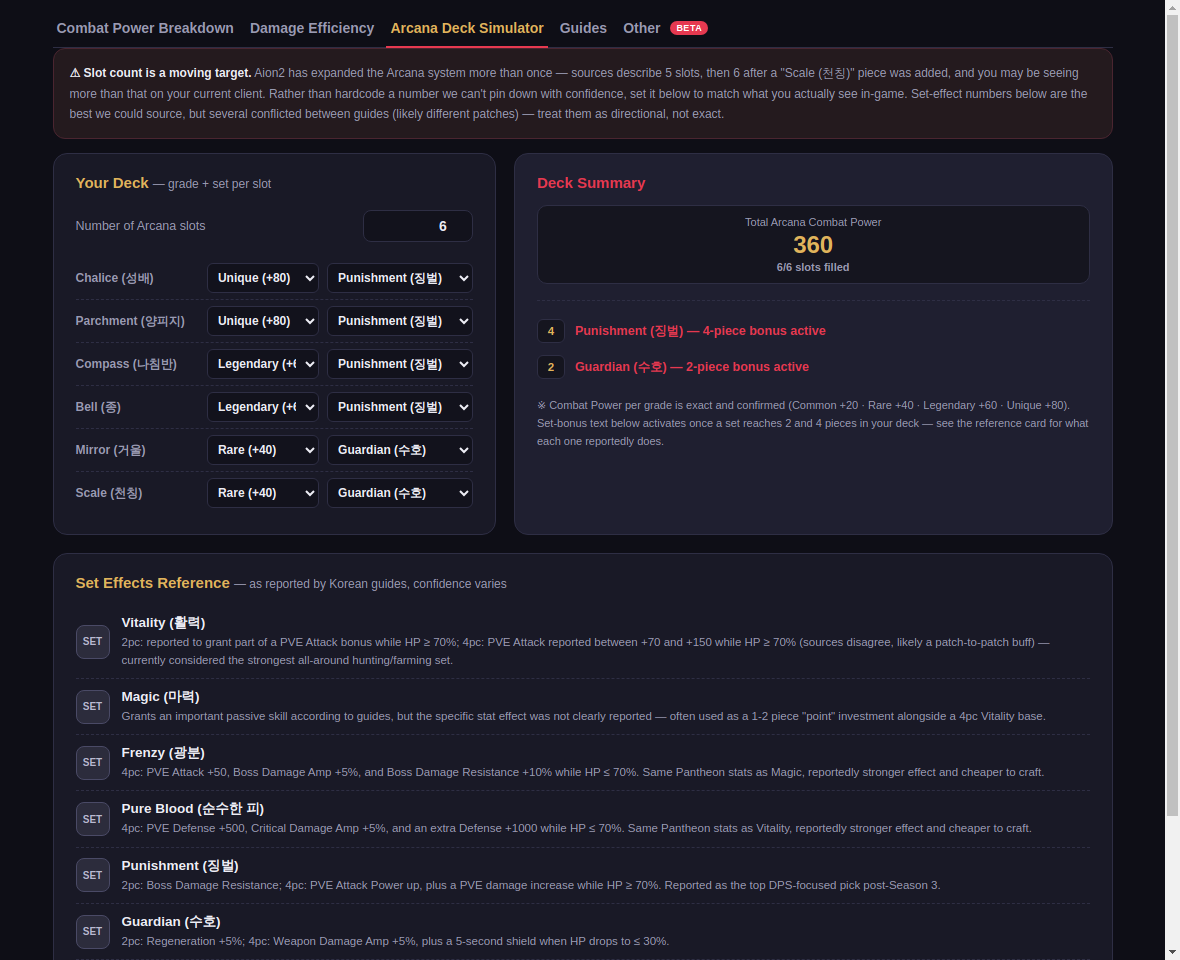
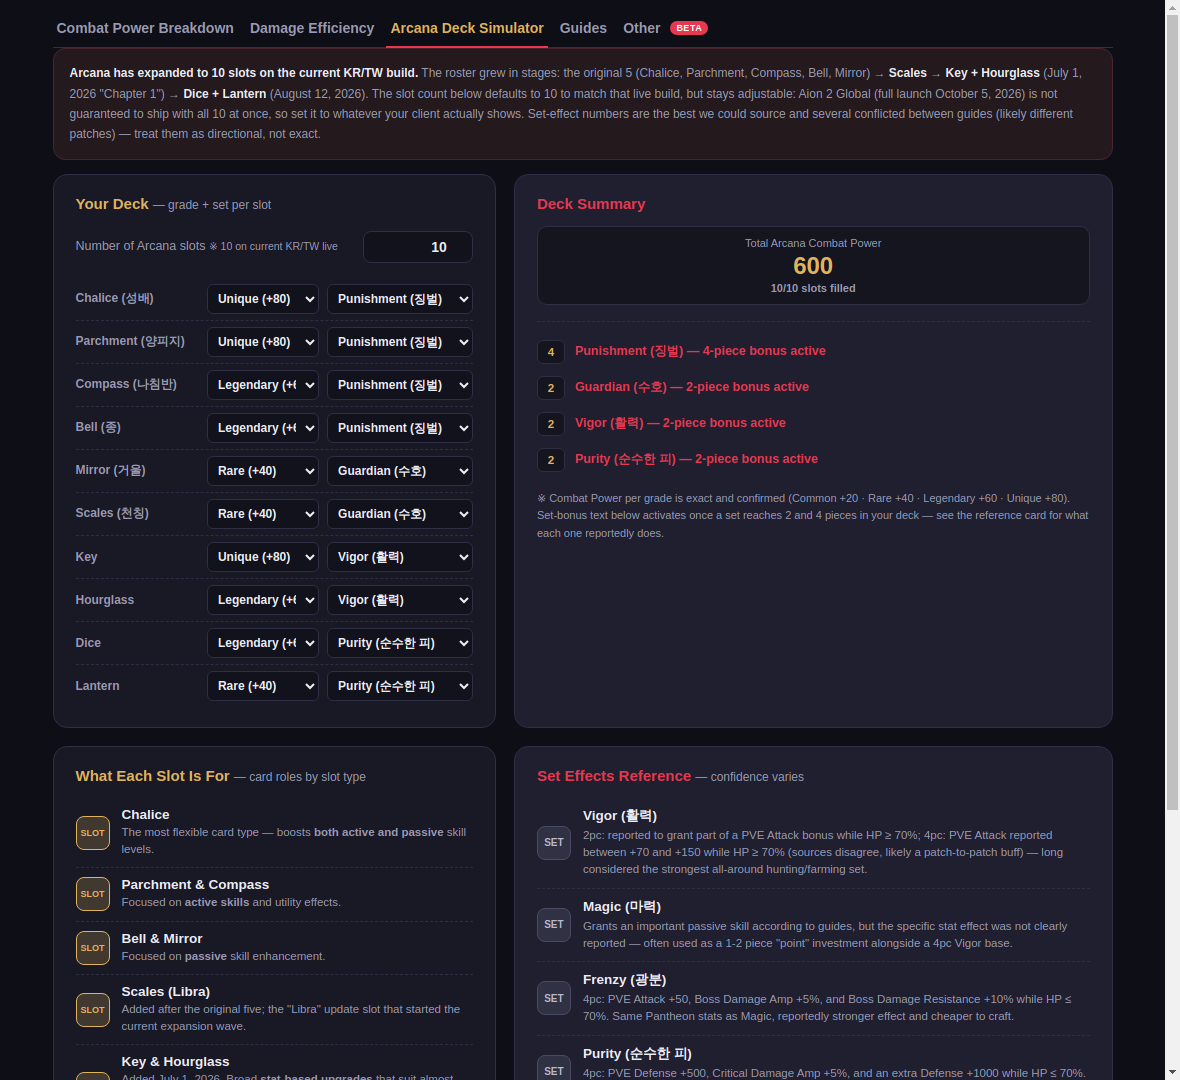
Deep-dive update: align Combat Power, Arcana and Guides with the current build
Combat Power: completed the Pantheon table with all 10 deity stats and
their official English names/mappings (Justice[Nezekan],
Destruction[Zikel], Freedom[Vaizel], Death[Triniel], Illusion[Kaisinel],
Wisdom[Lumiel], Life[Yustiel], Destiny[Marchutan], Time[Siel],
Space[Israphel]); documented that conversion is perfectly linear with a
worked example (Wisdom 178 -> +35.6% Smite); added a Monolith card
covering Empyrean Trace pillars as a non-gear deity-stat/CP source.

Arcana: slot roster corrected 6 -> 10 to match current KR/TW live
(original 5, then Scales, then Key + Hourglass on Jul 1, then Dice +
Lantern on Aug 12); official English set names (Vigor, Purity,
Indomitability); new per-slot card-role guidance.

Guides: new Chapter 1 "Land of Sand and Frost" card (Brawler, level 50 /
Stigma 25, Eltnen & Morheim, Sealed Dungeons, Strongholds, new gear);
glossary updated to official English terms; tab dated to the Aug 12,
2026 build with a Global-launch caveat.

Screenshots regenerated against the updated build.

Claude-Session: https://claude.ai/code/session_01SQ6BczPMuWFshtfUDpAGGM

diff --git a/src/index.html b/src/index.html
@@ -293,21 +293,37 @@
         <tr><td>Intelligence</td><td style="color:var(--muted)">(mapping not confirmed by sources)</td><td><input type="number" id="atInt" value="0" min="0"></td><td class="num" id="atIntOut">+0.00%</td></tr>
         <tr><td>Willpower</td><td style="color:var(--muted)">(mapping not confirmed by sources)</td><td><input type="number" id="atWill" value="0" min="0"></td><td class="num" id="atWillOut">+0.00%</td></tr>
         <tr><th style="padding-top:14px">Pantheon / Deity Stat (+0.20%/pt)</th><th style="padding-top:14px"></th><th style="padding-top:14px"></th><th style="padding-top:14px"></th></tr>
-        <tr><td>Justice (Nezekan)</td><td>Defense, Perfect proc rate</td><td><input type="number" id="atJustice" value="0" min="0"></td><td class="num" id="atJusticeOut">+0.00%</td></tr>
-        <tr><td>Freedom (Vaizel)</td><td>Accuracy, Evasion</td><td><input type="number" id="atFreedom" value="0" min="0"></td><td class="num" id="atFreedomOut">+0.00%</td></tr>
-        <tr><td>Illusion (Kaisinel)</td><td>Cooldown Reduction, Penetration</td><td><input type="number" id="atIllusion" value="0" min="0"></td><td class="num" id="atIllusionOut">+0.00%</td></tr>
-        <tr><td>Life (Yustiel)</td><td>Max HP, Regeneration proc rate</td><td><input type="number" id="atLife" value="0" min="0"></td><td class="num" id="atLifeOut">+0.00%</td></tr>
-        <tr><td>Time (Siel)</td><td>Attack Speed, Smite Resistance</td><td><input type="number" id="atTime" value="0" min="0"></td><td class="num" id="atTimeOut">+0.00%</td></tr>
-        <tr><td>Wisdom (Lumiel)</td><td>Smite proc rate</td><td><input type="number" id="atWisdom" value="0" min="0"></td><td class="num" id="atWisdomOut">+0.00%</td></tr>
-        <tr><td>Death <span style="color:var(--muted)">(name uncertain)</span></td><td style="color:var(--muted)">Critical (2nd stat unclear in sources)</td><td><input type="number" id="atDeath" value="0" min="0"></td><td class="num" id="atDeathOut">+0.00%</td></tr>
-        <tr><td>Destruction <span style="color:var(--muted)">(name uncertain)</span></td><td style="color:var(--muted)">Attack Power, Perfect Resistance</td><td><input type="number" id="atDestruction" value="0" min="0"></td><td class="num" id="atDestructionOut">+0.00%</td></tr>
-        <tr><td>Other 2 deity stats</td><td style="color:var(--muted)">(names/mappings not confirmed — same +0.20%/pt rate)</td><td><input type="number" id="atOtherDeity" value="0" min="0"></td><td class="num" id="atOtherDeityOut">+0.00%</td></tr>
+        <tr><td>Justice [Nezekan]</td><td>Defense, Perfect Chance</td><td><input type="number" id="atJustice" value="0" min="0"></td><td class="num" id="atJusticeOut">+0.00%</td></tr>
+        <tr><td>Destruction [Zikel]</td><td>Attack, Perfect Resist</td><td><input type="number" id="atDestruction" value="0" min="0"></td><td class="num" id="atDestructionOut">+0.00%</td></tr>
+        <tr><td>Freedom [Vaizel]</td><td>Accuracy, Evasion</td><td><input type="number" id="atFreedom" value="0" min="0"></td><td class="num" id="atFreedomOut">+0.00%</td></tr>
+        <tr><td>Death [Triniel]</td><td>Critical, Regen Penetration</td><td><input type="number" id="atDeath" value="0" min="0"></td><td class="num" id="atDeathOut">+0.00%</td></tr>
+        <tr><td>Illusion [Kaisinel]</td><td>−Cooldown, Endurance Penetration</td><td><input type="number" id="atIllusion" value="0" min="0"></td><td class="num" id="atIllusionOut">+0.00%</td></tr>
+        <tr><td>Wisdom [Lumiel]</td><td>Smite, −MP Cost</td><td><input type="number" id="atWisdom" value="0" min="0"></td><td class="num" id="atWisdomOut">+0.00%</td></tr>
+        <tr><td>Life [Yustiel]</td><td>HP, Regeneration</td><td><input type="number" id="atLife" value="0" min="0"></td><td class="num" id="atLifeOut">+0.00%</td></tr>
+        <tr><td>Destiny [Marchutan]</td><td>MP, Endurance</td><td><input type="number" id="atDestiny" value="0" min="0"></td><td class="num" id="atDestinyOut">+0.00%</td></tr>
+        <tr><td>Time [Siel]</td><td>Combat Speed, Smite Resist</td><td><input type="number" id="atTime" value="0" min="0"></td><td class="num" id="atTimeOut">+0.00%</td></tr>
+        <tr><td>Space [Israphel]</td><td>Move Speed, Block</td><td><input type="number" id="atSpace" value="0" min="0"></td><td class="num" id="atSpaceOut">+0.00%</td></tr>
       </table>
       <div class="note">
-        ※ Deity stats convert at double the rate of core attributes (0.20% vs 0.10% per point), so for raw derived-stat %, a deity point is worth 2× a core attribute point. 8 of the 10 Pantheon deity stats turned up with a stat mapping in research (2 with lower confidence, noted above); the remaining 2 are placeholders for whichever deity stats you're actually investing in.<br>
-        ※ Current community meta treats Time (Attack Speed) and Illusion (Cooldown Reduction) as the highest-priority Pantheon stats to invest in.<br>
+        ※ All 10 Pantheon deity stats are now listed with their confirmed mappings and official English names. Deity stats convert at double the rate of core attributes (0.20% vs 0.10% per point), so a deity point is worth 2× a core attribute point for raw derived-stat %.<br>
+        ※ <b>The conversion is perfectly linear — there are no diminishing returns on the attribute→stat step itself.</b> Worked example: Wisdom 178 → 178 × 0.2 = <b>+35.6% Smite</b>. Likewise ~10 Might ≈ +1% Attack.<br>
+        ※ Current community meta treats Time (Combat Speed) and Illusion (−Cooldown) as the highest-priority Pantheon stats to invest in.<br>
         ※ This table only converts attribute points into their derived-stat percentage — it does not attempt to output a single Combat Power number, since we have no confirmed formula linking derived-stat % to CP.
       </div>
+    </div>
+
+    <div class="card" style="margin-top:18px">
+      <h2>Monoliths <span style="color:var(--muted);font-weight:400;font-size:12px">— Empyrean Trace pillars, a direct deity-stat (and therefore CP) source</span></h2>
+      <div class="note" style="margin-top:0">Every zone has a Monolith: an Empyrean Trace pillar you feed with traces collected in that zone to climb a level ladder. Each level costs a set number of tokens and pays out <b>deity stat and PvP stat gains</b> plus item rewards — which makes Monoliths one of the few systems that raises Combat Power directly through the Pantheon stats in the table above, rather than through gear.</div>
+      <table class="attr">
+        <tr><th>Zone</th><th>Added</th></tr>
+        <tr><td>Verteron</td><td class="num">Launch</td></tr>
+        <tr><td>Altgard</td><td class="num">Launch</td></tr>
+        <tr><td>Reshanta</td><td class="num">Launch</td></tr>
+        <tr><td>Eltnen (Elyos)</td><td class="num">Chapter 1</td></tr>
+        <tr><td>Morheim (Asmodian)</td><td class="num">Chapter 1</td></tr>
+      </table>
+      <div class="note">※ Regional Quests, Sealed Dungeons and Strongholds also reward an item granting Daevanion Skill points — a separate progression track worth doing alongside Monolith farming.</div>
     </div>
 
     <div class="grid" style="margin-top:18px">
@@ -350,12 +366,12 @@
 
   <div id="tab-arcana" class="tabpanel">
     <div class="callout" style="margin-top:0">
-      <b>⚠ Slot count is a moving target.</b> Aion2 has expanded the Arcana system more than once — sources describe 5 slots, then 6 after a "Scale (천칭)" piece was added, and you may be seeing more than that on your current client. Rather than hardcode a number we can't pin down with confidence, set it below to match what you actually see in-game. Set-effect numbers below are the best we could source, but several conflicted between guides (likely different patches) — treat them as directional, not exact.
+      <b>Arcana has expanded to 10 slots on the current KR/TW build.</b> The roster grew in stages: the original 5 (Chalice, Parchment, Compass, Bell, Mirror) → <b>Scales</b> → <b>Key + Hourglass</b> (July 1, 2026 "Chapter 1") → <b>Dice + Lantern</b> (August 12, 2026). The slot count below defaults to 10 to match that live build, but stays adjustable: Aion 2 Global (full launch October 5, 2026) is not guaranteed to ship with all 10 at once, so set it to whatever your client actually shows. Set-effect numbers are the best we could source and several conflicted between guides (likely different patches) — treat them as directional, not exact.
     </div>
     <div class="grid" style="margin-top:14px">
       <div class="card">
         <h2>Your Deck <span style="color:var(--muted);font-weight:400;font-size:12px">— grade + set per slot</span></h2>
-        <div class="field"><label>Number of Arcana slots</label><input type="number" id="arcSlotCount" value="6" min="1" max="12"></div>
+        <div class="field"><label>Number of Arcana slots <span style="font-size:10.5px">※ 10 on current KR/TW live</span></label><input type="number" id="arcSlotCount" value="10" min="1" max="12"></div>
         <div id="arcDeckRows" style="margin-top:10px"></div>
       </div>
       <div class="card2">
@@ -368,16 +384,23 @@
         <div class="note">※ Combat Power per grade is exact and confirmed (Common +20 · Rare +40 · Legendary +60 · Unique +80). Set-bonus text below activates once a set reaches 2 and 4 pieces in your deck — see the reference card for what each one reportedly does.</div>
       </div>
     </div>
-    <div class="card" style="margin-top:18px">
-      <h2>Set Effects Reference <span style="color:var(--muted);font-weight:400;font-size:12px">— as reported by Korean guides, confidence varies</span></h2>
-      <div id="arcSetRef"></div>
+    <div class="grid" style="margin-top:18px">
+      <div class="card">
+        <h2>What Each Slot Is For <span style="color:var(--muted);font-weight:400;font-size:12px">— card roles by slot type</span></h2>
+        <div id="arcSlotRoles"></div>
+        <div class="note">※ Beyond Combat Power, the main point of an Arcana deck is <b>raising skill levels</b> — cards push individual skills toward the level-20 goal that unlocks their full potential and specializations, alongside stats like cooldown reduction, HP, HP absorption and Combat Speed.</div>
+      </div>
+      <div class="card2">
+        <h2 class="r">Set Effects Reference <span style="color:var(--muted);font-weight:400;font-size:12px">— confidence varies</span></h2>
+        <div id="arcSetRef"></div>
+      </div>
     </div>
   </div>
   <!-- /tab-arcana -->
 
   <div id="tab-guides" class="tabpanel">
     <div class="callout" style="margin-top:0">
-      Compiled and translated from Korean dungeon guides (게임톡, Inven, NC Purple Lounge) and namu.wiki. Coverage is limited to the dungeons that turned up detailed, sourced mechanic write-ups — it's not a complete list of every dungeon in the game, and mechanic details can change with balance patches.
+      Compiled and translated from Korean dungeon guides (게임톡, Inven, NC Purple Lounge), namu.wiki, and English coverage of the Global build. <b>Content current as of the August 12, 2026 KR/TW build</b>; Aion 2 Global's full launch is October 5, 2026 and may not ship with every system listed here at once. Coverage is limited to content that turned up detailed, sourced write-ups — it's not a complete list of every dungeon in the game, and mechanics change with balance patches.
     </div>
     <div class="subtabs">
       <button class="subtab-btn active" data-subtab="dungeons">Dungeon Mechanics</button>
@@ -387,6 +410,16 @@
     <!-- Dungeon Mechanics -->
     <div id="sub-dungeons" class="subtabpanel active">
       <div class="card">
+        <h2>Latest Content: Chapter 1 — "Land of Sand and Frost" <span style="color:var(--muted);font-weight:400;font-size:12px">— July 1, 2026</span></h2>
+        <div class="tier-row"><div class="tier-badge tier-S">NEW</div><div><div class="tier-name">Brawler class</div><div class="tier-desc">Gauntlet-wielding front-line class built around rapid chain attacks and aggressive engages.</div></div></div>
+        <div class="tier-row"><div class="tier-badge tier-A">CAP</div><div><div class="tier-name">Level cap 50 · Stigma cap 25</div><div class="tier-desc">Character level cap raised to 50; the Stigma skill reinforcement ceiling was adjusted to level 25.</div></div></div>
+        <div class="tier-row"><div class="tier-badge tier-A">MAP</div><div><div class="tier-name">New regions: Eltnen (Elyos) & Morheim (Asmodian)</div><div class="tier-desc">Each brings its own Monolith, plus new Sealed Dungeons and Strongholds.</div></div></div>
+        <div class="tier-row"><div class="tier-badge tier-B">SYS</div><div><div class="tier-name">Sealed Dungeons & Strongholds</div><div class="tier-desc">Repeatable reward content for endgame materials, experience and progression items; certain Regional Quests, Sealed Dungeons and Strongholds also grant Daevanion Skill points.</div></div></div>
+        <div class="tier-row"><div class="tier-badge tier-B">GEAR</div><div><div class="tier-name">New Pendant slot · Hero-grade Amulets & Belts</div><div class="tier-desc">New accessory equipment added alongside the region content.</div></div></div>
+        <div class="note">※ A follow-up update on August 12, 2026 added the Dice and Lantern Arcana slots (see the Arcana Deck Simulator tab).</div>
+      </div>
+
+      <div class="card" style="margin-top:18px">
         <h2>Transcendence (초월) Dungeons <span style="color:var(--muted);font-weight:400;font-size:12px">— 10-stage endgame content, difficulty scales per stage</span></h2>
         <div class="tier-row"><div class="tier-badge tier-S">01</div><div><div class="tier-name">Shattered Arcanis — Boss: Talisra</div><div class="tier-desc">Wipe-mechanic phases trigger at ~60% and ~30% HP. Blue and purple orbs spawn at the map edges and drift toward the boss; assign 2 players to each color <i>before</i> the pull. Collecting an orb grants a shield of that color — if everyone chases one color, the opposite shield never forms and the raid wipes.</div></div></div>
         <div class="tier-row"><div class="tier-badge tier-S">02</div><div><div class="tier-name">Deus Research Base — Boss: Artiel</div><div class="tier-desc">Fast-paced boss that mixes patterns quickly. At certain HP thresholds it destroys the map's outer edge, shrinking the arena and increasing hazard density; its knockback attacks can then knock you off the map. From stage 4 onward it alternates two contradictory chain mechanics — "You can't escape me" (move <i>away</i> from the boss) and "Bound in chains" (move <i>toward</i>/stick to the boss) — reading the callout correctly matters more than reflexes here.</div></div></div>
@@ -417,13 +450,19 @@
     <div id="sub-glossary" class="subtabpanel">
       <div class="card">
         <h2>Korean/Chinese ↔ English Term Glossary</h2>
-        <div class="note" style="margin-top:0">This app mixes translated English with the original Korean/Chinese terms throughout, since official English localization doesn't exist yet for most of these systems. Use this as a lookup when a term elsewhere in the app looks unfamiliar.</div>
+        <div class="note" style="margin-top:0">Terms below now use the <b>official English localization</b> where it's known (verified against Global-build stat names), with the Korean original alongside. Use this as a lookup when a term elsewhere in the app looks unfamiliar.</div>
         <table class="attr">
           <tr><th>Original</th><th>English Used In This App</th><th>Notes</th></tr>
           <tr><td>전투력</td><td>Combat Power</td><td>Official, server-computed gear-level score</td></tr>
           <tr><td>아툴 (Atool)</td><td>Atool</td><td>Community DPS-estimate score, distinct from Combat Power</td></tr>
-          <tr><td>강타</td><td>Smite</td><td>~2× damage proc</td></tr>
-          <tr><td>완벽</td><td>Perfect</td><td>Locks damage to weapon's max roll</td></tr>
+          <tr><td>강타</td><td>Smite</td><td>~2× damage proc. Official EN name; the game's internal name is "HardHit"</td></tr>
+          <tr><td>완벽</td><td>Perfect Chance / Perfect Resist</td><td>Locks damage to weapon's max roll; Resist is the defensive counterpart</td></tr>
+          <tr><td>전투 속도</td><td>Combat Speed</td><td>Official EN term (not "Attack Speed")</td></tr>
+          <tr><td>—</td><td>Regen Penetration / Endurance Penetration</td><td>Two distinct Penetration variants from Death and Illusion deity stats</td></tr>
+          <tr><td>—</td><td>Monolith / Empyrean Trace</td><td>Per-zone pillar fed with traces for deity &amp; PvP stat gains</td></tr>
+          <tr><td>—</td><td>Sealed Dungeon / Stronghold</td><td>Chapter 1 repeatable reward content</td></tr>
+          <tr><td>데바니온</td><td>Daevanion</td><td>Skill-point progression track</td></tr>
+          <tr><td>—</td><td>Brawler</td><td>Gauntlet class added in Chapter 1</td></tr>
           <tr><td>다단히트</td><td>Multi-Hit</td><td>Cascading extra-hit proc</td></tr>
           <tr><td>관통</td><td>Penetration</td><td></td></tr>
           <tr><td>명중</td><td>Accuracy</td><td>Avoids the Parry damage penalty</td></tr>
@@ -434,9 +473,11 @@
           <tr><td>각인</td><td>Engraving</td><td>Manastone/Godstone/Soul Engraving — see Itemization Pipeline in Combat Power tab</td></tr>
           <tr><td>영혼각인</td><td>Soul Engraving</td><td>Random substat on every gear piece</td></tr>
           <tr><td>신석각인</td><td>Godstone Engraving</td><td>On-hit CC proc effects</td></tr>
-          <tr><td>아르카나</td><td>Arcana</td><td>See the Arcana Deck Simulator tab</td></tr>
+          <tr><td>아르카나</td><td>Arcana</td><td>10 slots on current KR/TW live — see the Arcana Deck Simulator tab</td></tr>
+          <tr><td>활력 / 순수한 피 / 불굴</td><td>Vigor / Purity / Indomitability</td><td>Arcana set names — official EN differs from a literal translation</td></tr>
+          <tr><td>천칭</td><td>Scales (Libra)</td><td>The 6th Arcana slot, and the update that introduced it</td></tr>
           <tr><td>만신전</td><td>Pantheon</td><td>Deity-stat statue system</td></tr>
-          <tr><td>주신 / 신 스탯</td><td>Deity Stat</td><td>+0.20%/point conversion rate</td></tr>
+          <tr><td>주신 / 신 스탯</td><td>Deity Stat</td><td>+0.20%/point conversion rate, perfectly linear</td></tr>
           <tr><td>초월</td><td>Transcendence</td><td>10-stage endgame dungeon</td></tr>
           <tr><td>원정</td><td>Expedition</td><td>Multi-boss dungeon content</td></tr>
           <tr><td>정복 / 어려움 / 보통</td><td>Conquest / Hard / Normal</td><td>Expedition difficulty tiers</td></tr>
@@ -776,8 +817,8 @@ calcAccuracy();
 // ---- Combat Power: Attribute -> Derived Stat Planner (exact confirmed rates) ----
 const ATTR_MAP = [
   ['atMight', 0.10], ['atCon', 0.10], ['atDex', 0.10], ['atPre', 0.10], ['atInt', 0.10], ['atWill', 0.10],
-  ['atJustice', 0.20], ['atFreedom', 0.20], ['atIllusion', 0.20], ['atLife', 0.20], ['atTime', 0.20],
-  ['atWisdom', 0.20], ['atDeath', 0.20], ['atDestruction', 0.20], ['atOtherDeity', 0.20],
+  ['atJustice', 0.20], ['atDestruction', 0.20], ['atFreedom', 0.20], ['atDeath', 0.20], ['atIllusion', 0.20],
+  ['atWisdom', 0.20], ['atLife', 0.20], ['atDestiny', 0.20], ['atTime', 0.20], ['atSpace', 0.20],
 ];
 function calcAttrPlanner(){
   ATTR_MAP.forEach(([id, rate]) => {
@@ -981,17 +1022,28 @@ const ARCD_GRADES = [
   {v:60, label:'Legendary (+60)'},
   {v:80, label:'Unique (+80)'},
 ];
-const ARCD_SETS = ['None', 'Vitality (활력)', 'Magic (마력)', 'Frenzy (광분)', 'Pure Blood (순수한 피)', 'Punishment (징벌)', 'Guardian (수호)', 'Unyielding (불굴)'];
-const ARCD_SLOT_NAMES = ['Chalice (성배)', 'Parchment (양피지)', 'Compass (나침반)', 'Bell (종)', 'Mirror (거울)', 'Scale (천칭)'];
+const ARCD_SETS = ['None', 'Vigor (활력)', 'Magic (마력)', 'Frenzy (광분)', 'Purity (순수한 피)', 'Punishment (징벌)', 'Guardian (수호)', 'Indomitability (불굴)'];
+const ARCD_SLOT_NAMES = [
+  'Chalice (성배)', 'Parchment (양피지)', 'Compass (나침반)', 'Bell (종)', 'Mirror (거울)',
+  'Scales (천칭)', 'Key', 'Hourglass', 'Dice', 'Lantern'
+];
 const SET_EFFECTS = {
-  'Vitality (활력)': '2pc: reported to grant part of a PVE Attack bonus while HP ≥ 70%; 4pc: PVE Attack reported between +70 and +150 while HP ≥ 70% (sources disagree, likely a patch-to-patch buff) — currently considered the strongest all-around hunting/farming set.',
-  'Magic (마력)': 'Grants an important passive skill according to guides, but the specific stat effect was not clearly reported — often used as a 1-2 piece "point" investment alongside a 4pc Vitality base.',
+  'Vigor (활력)': '2pc: reported to grant part of a PVE Attack bonus while HP ≥ 70%; 4pc: PVE Attack reported between +70 and +150 while HP ≥ 70% (sources disagree, likely a patch-to-patch buff) — long considered the strongest all-around hunting/farming set.',
+  'Magic (마력)': 'Grants an important passive skill according to guides, but the specific stat effect was not clearly reported — often used as a 1-2 piece "point" investment alongside a 4pc Vigor base.',
   'Frenzy (광분)': '4pc: PVE Attack +50, Boss Damage Amp +5%, and Boss Damage Resistance +10% while HP ≤ 70%. Same Pantheon stats as Magic, reportedly stronger effect and cheaper to craft.',
-  'Pure Blood (순수한 피)': '4pc: PVE Defense +500, Critical Damage Amp +5%, and an extra Defense +1000 while HP ≤ 70%. Same Pantheon stats as Vitality, reportedly stronger effect and cheaper to craft.',
+  'Purity (순수한 피)': '4pc: PVE Defense +500, Critical Damage Amp +5%, and an extra Defense +1000 while HP ≤ 70%. Same Pantheon stats as Vigor, reportedly stronger effect and cheaper to craft.',
   'Punishment (징벌)': '2pc: Boss Damage Resistance; 4pc: PVE Attack Power up, plus a PVE damage increase while HP ≥ 70%. Reported as the top DPS-focused pick post-Season 3.',
   'Guardian (수호)': '2pc: Regeneration +5%; 4pc: Weapon Damage Amp +5%, plus a 5-second shield when HP drops to ≤ 30%.',
-  'Unyielding (불굴)': 'Reported effect (piece breakdown unclear): Weapon Damage Resistance +5%, Critical Damage Resistance +5%, and +50% PvP Damage Resistance for 5 seconds when afflicted by a status ailment (150s cooldown) — a PvP-defensive set.',
+  'Indomitability (불굴)': 'Reported effect (piece breakdown unclear): Weapon Damage Resist +5%, Critical Damage Resist +5%, and +50% PvP Damage Resist for 5 seconds when afflicted by a status ailment (150s cooldown) — a PvP-defensive set.',
 };
+const SLOT_ROLES = [
+  {name:'Chalice', desc:'The most flexible card type — boosts <b>both active and passive</b> skill levels.'},
+  {name:'Parchment & Compass', desc:'Focused on <b>active skills</b> and utility effects.'},
+  {name:'Bell & Mirror', desc:'Focused on <b>passive</b> skill enhancement.'},
+  {name:'Scales (Libra)', desc:'Added after the original five; the "Libra" update slot that started the current expansion wave.'},
+  {name:'Key & Hourglass', desc:'Added July 1, 2026. Broad <b>stat-based upgrades</b> that suit almost any build — guides advise farming and upgrading <b>Keys before Hourglasses</b> during Transcendence runs.'},
+  {name:'Dice & Lantern', desc:'Added August 12, 2026. Purely <b>offensive</b> options — Perfect hits, Critical hits, Multi-Hit and other damage-enhancing rolls.'},
+];
 let arcDeck = [];
 function ensureArcDeckSize(){
   const n = Math.max(1, Math.min(12, parseInt($('arcSlotCount').value, 10) || 6));
@@ -1045,6 +1097,9 @@ function calcArcDeck(){
 $('arcSetRef').innerHTML = Object.entries(SET_EFFECTS).map(([name, desc]) => `
   <div class="tier-row"><div class="tier-badge tier-B" style="font-size:10px">SET</div>
   <div><div class="tier-name">${name}</div><div class="tier-desc">${desc}</div></div></div>`).join('');
+$('arcSlotRoles').innerHTML = SLOT_ROLES.map(x => `
+  <div class="tier-row"><div class="tier-badge tier-A" style="font-size:9px">SLOT</div>
+  <div><div class="tier-name">${x.name}</div><div class="tier-desc">${x.desc}</div></div></div>`).join('');
 renderArcDeck();
 
 // ---- Other: Patch Notes (best-effort auto-fetch via main process) ----
